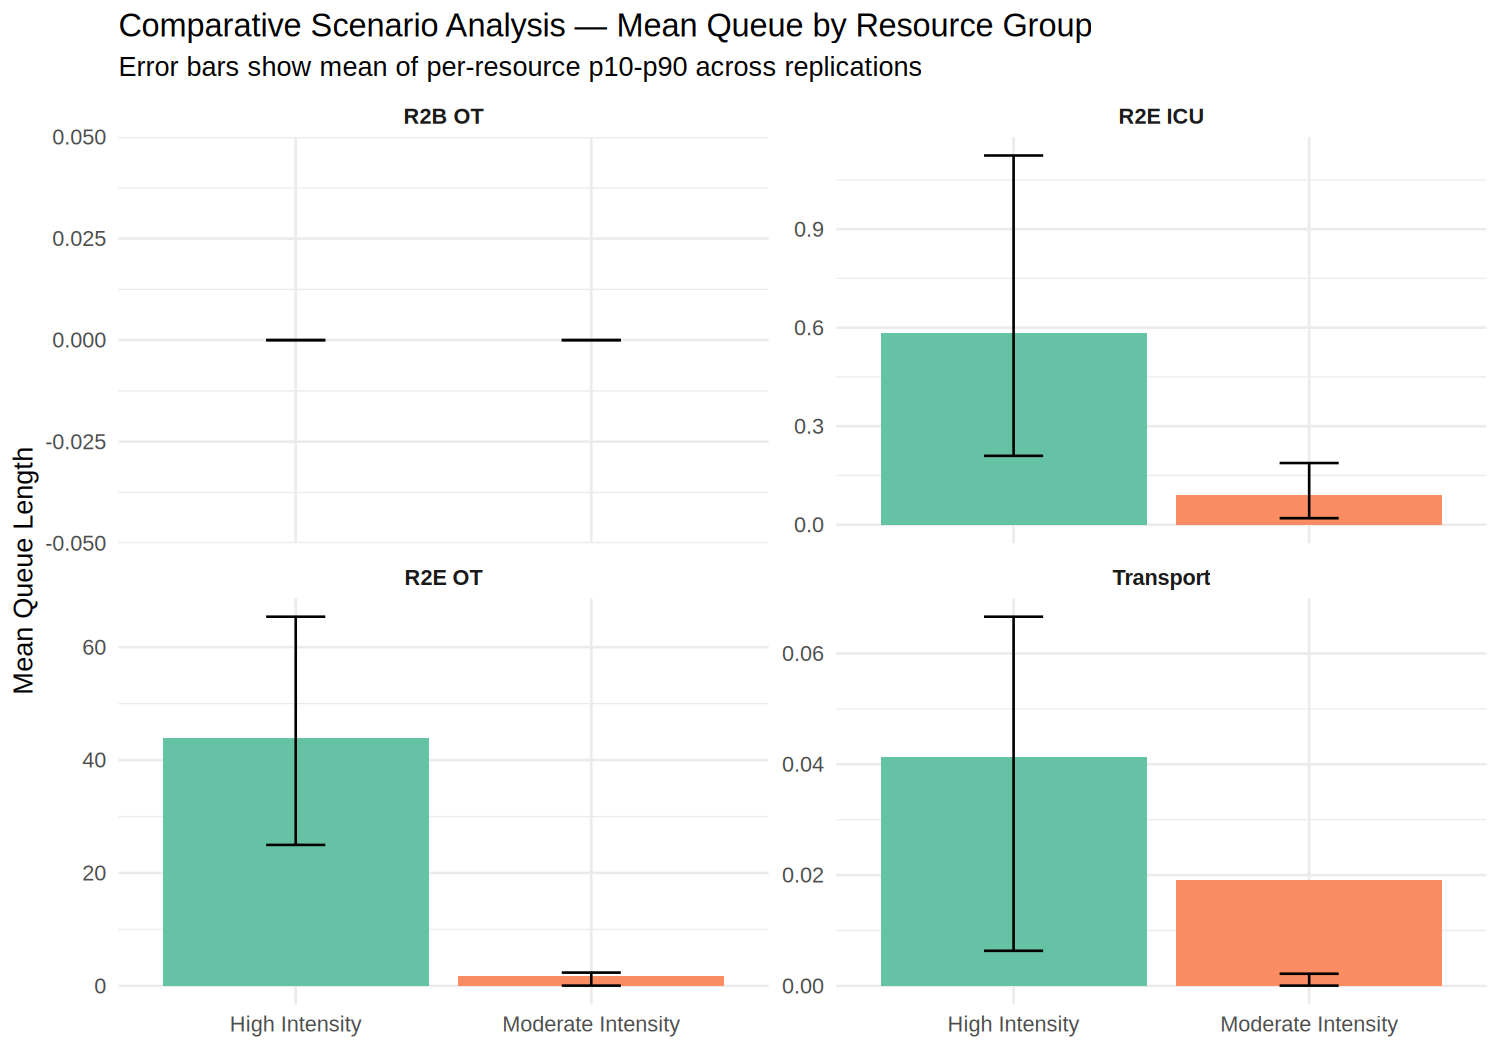
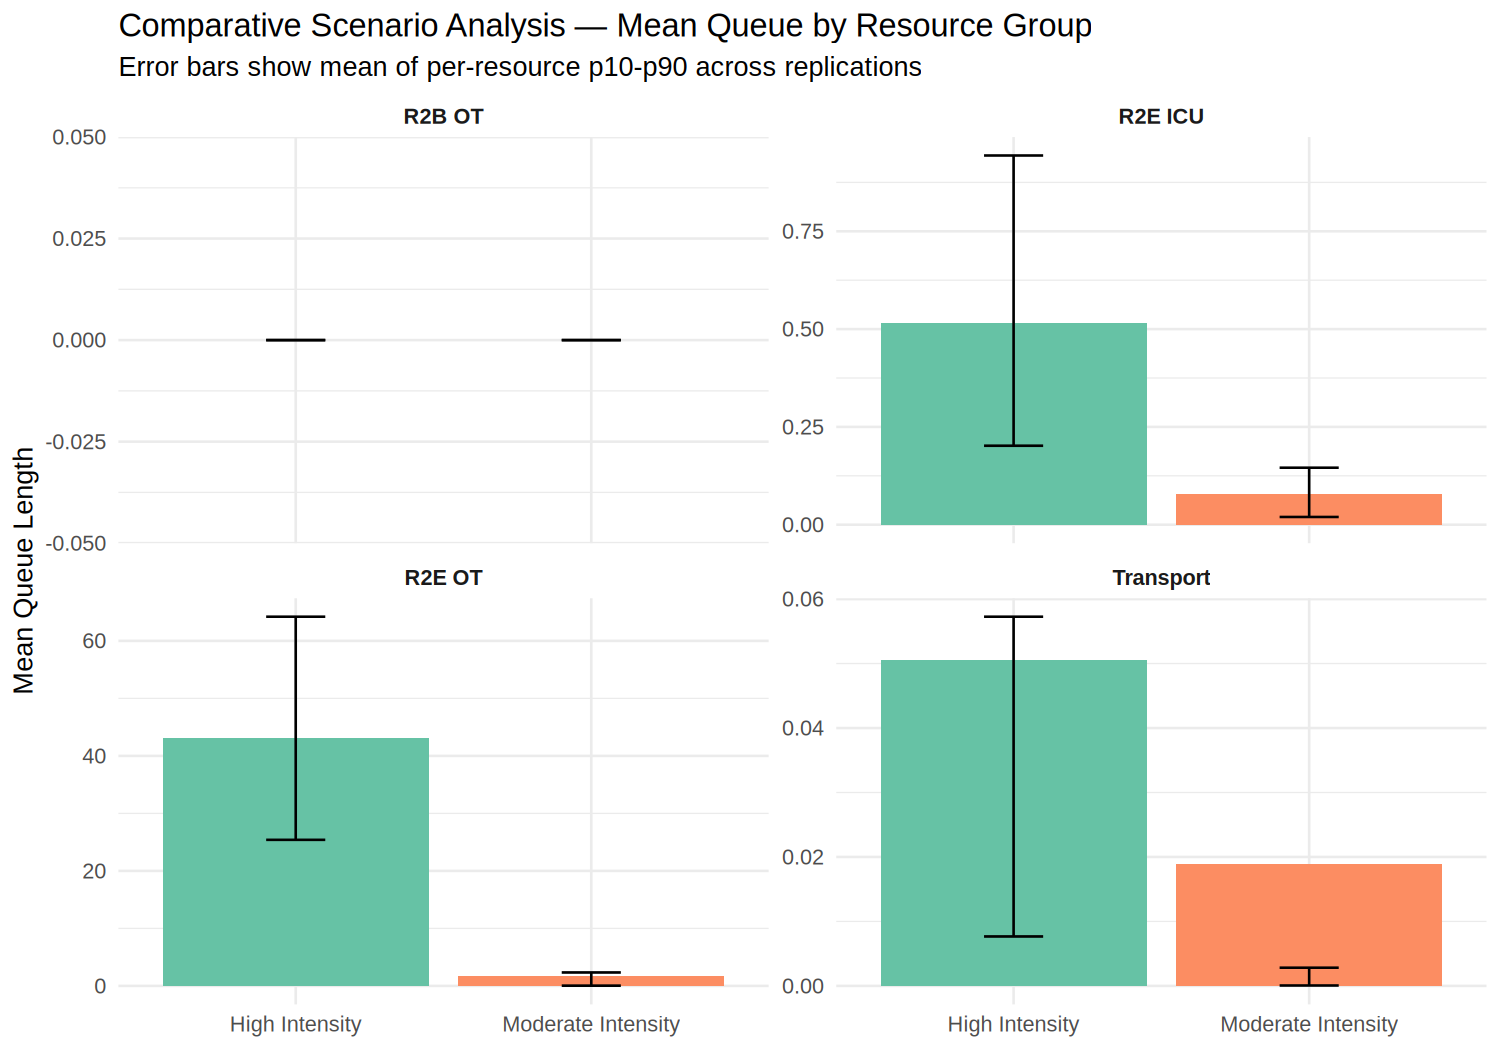
docs(issue-312): re-measure the comparative scenario tables at the new defaults
Re-runs the 50-replication comparison of moderate and high casualty intensity
under the three shipped defaults this branch changes, and updates both tables in
docs/Multi_Run_Analysis.md, the prose figures that quote them, the paper
figures rendered from them, and the summary in CLAUDE.md's provenance note.

Totals barely move: 432.2 total casualties against 430.9 at moderate intensity
and 1,050.4 against 1,048.6 at high, both well inside their intervals, so the
casualty volume ratio holds at 2.43x. Deaths of wounds fall slightly at high
intensity, 23.80 against 24.50, taking the ratio from 25.5x to 22.5x and the
share of wounded from 3.41% to 3.35%.

The queue table moves more, and in the direction the airlift change predicts.
R2E holding falls from 0.272 to 0.056 at moderate intensity, because with every
sortie flying no casualty holds a bed waiting for one, while at high intensity
it falls only from 1.454 to 1.038: the pool is still loaded there by
in-theatre recovery rather than by the evacuation wait. That widens the
relative growth from 5.34x to 18.4x, which is a larger number carrying less
meaning, and the prose says so rather than presenting it as the headline. R2E
operating theatre remains the largest absolute queue at 43.13 and is still the
constraint the section is about.

The three paper figures are re-rendered by scripts/render_paper_figures.R,
which parses the values out of the paper's own tables, so a figure cannot
[…]

diff --git a/docs/Multi_Run_Analysis.md b/docs/Multi_Run_Analysis.md
@@ -119,7 +119,7 @@ $$\bar{x} \pm t_{0.975,\;n-1}\,\frac{s}{\sqrt{n}}$$
 
 where $n$ is the number of runs, $\bar{x}$ the average across them and $s$ the variation between them. Dividing by the square root of the number of runs is what makes additional runs improve precision: quadrupling the runs halves the width of the interval.
 
-Two points govern how these intervals should be used. First, the interval describes how precisely the average is known, not how much one campaign varies. Several tables also report a 10th-to-90th-percentile range, which is the spread across campaigns, and it is many times the wider of the two. At moderate intensity, for example, the average campaign produces 430.9 casualties and that average is known to within about 19 either way, while the campaigns themselves range from 360 to 489. Sizing against 431 under-provides for the campaign that actually occurs. Second, where two intervals overlap, the simulation has not established a difference between them, and the gap between the two averages should not be acted on as though it were real.
+Two points govern how these intervals should be used. First, the interval describes how precisely the average is known, not how much one campaign varies. Several tables also report a 10th-to-90th-percentile range, which is the spread across campaigns, and it is many times the wider of the two. At moderate intensity, for example, the average campaign produces 432.2 casualties and that average is known to within about 18 either way, while the campaigns themselves range from 360 to 489. Sizing against 431 under-provides for the campaign that actually occurs. Second, where two intervals overlap, the simulation has not established a difference between them, and the gap between the two averages should not be acted on as though it were real.
 
 ### Replication Count and Resolution
 
@@ -159,14 +159,14 @@ Element, bed and transport fleet sizes are parameters a planner using the simula
 
 | Metric | Moderate intensity | High intensity | Ratio |
 |---|---|---|---|
-| Total casualties/run | 430.9 [412.3, 449.5] (p10–p90: 359.7–488.5) | 1,048.6 [1,024.7, 1,072.5] (p10–p90: 953.9–1,150.1) | 2.43× |
-| Wounded in action/run | 184.8 [168.3, 201.2] (p10–p90: 136.6–221.1) | 710.8 [685.0, 736.6] (p10–p90: 572.5–825.2) | 3.85× |
-| Died of wounds/run | 0.96 [0.72, 1.20] (p10–p90: 0–2.0) | 24.50 [22.47, 26.53] (p10–p90: 15.9–34.0) | 25.5× |
-| Died of wounds, as share of wounded | 0.52% [0.39%, 0.65%] | 3.41% [3.20%, 3.63%] | 6.56× |
+| Total casualties/run | 432.2 [414.4, 449.9] (p10–p90: 363.6–484.5) | 1,050.4 [1,026.0, 1,074.8] (p10–p90: 968.6–1,171.4) | 2.43× |
+| Wounded in action/run | 184.5 [169.3, 199.6] (p10–p90: 137.5–222.7) | 707.2 [681.0, 733.5] (p10–p90: 568.0–807.5) | 3.83× |
+| Died of wounds/run | 1.06 [0.80, 1.32] (p10–p90: 0–2.0) | 23.80 [21.84, 25.76] (p10–p90: 15.9–32.0) | 22.5× |
+| Died of wounds, as share of wounded | 0.55% [0.42%, 0.67%] | 3.35% [3.12%, 3.58%] | 6.12× |
 
-Casualty counts vary widely from campaign to campaign, because each arrival stream draws its daily rate from a distribution before placing that day's arrivals within the day [[9]](#references), so the between-day variation FORECAS reports [[3]](#references) reaches the output rather than being averaged away. At moderate intensity the total spans 359.7 to 488.5 casualties between the 10th and 90th percentiles against an average of 430.9. Surge capacity therefore has to be judged against the heavy day rather than the average one.
+Casualty counts vary widely from campaign to campaign, because each arrival stream draws its daily rate from a distribution before placing that day's arrivals within the day [[9]](#references), so the between-day variation FORECAS reports [[3]](#references) reaches the output rather than being averaged away. At moderate intensity the total spans 363.6 to 484.5 casualties between the 10th and 90th percentiles against an average of 432.2. Surge capacity therefore has to be judged against the heavy day rather than the average one.
 
-Deaths of wounds rise 25-fold while casualty volume rises 2.43-fold, but that comparison measures more than the health system, each intensity carrying the survival experience of its own campaign as well as its casualty rate.
+Deaths of wounds rise 22-fold while casualty volume rises 2.43-fold, but that comparison measures more than the health system, each intensity carrying the survival experience of its own campaign as well as its casualty rate.
 
 ![Four panels, one per metric, each plotting moderate and high casualty intensity as a point with a narrow 95% confidence interval bar and a wide band showing the 10th-to-90th-percentile spread across campaigns, for total casualties, wounded in action, deaths of wounds and deaths as a share of wounded](../images/paper_casualty_totals.png)
 
@@ -175,17 +175,17 @@ The width of the pale band against the narrow bar inside it is the point to take
 | Resource group | Moderate intensity mean queue | High intensity mean queue | Ratio |
 |---|---|---|---|
 | R2B operating theatre | 0.000 [0.000, 0.000] | 0.000 [0.000, 0.000] | not applicable |
-| R2B holding beds | 0.571 [0.447, 0.695] | 3.213 [2.885, 3.541] | 5.63× |
-| R2E operating theatre | 1.677 [0.154, 3.199] | 43.83 [39.35, 48.32] | 26.1× |
-| R2E intensive care | 0.092 [0.065, 0.118] | 0.584 [0.476, 0.692] | 6.37× |
-| R2E holding beds | 0.272 [0.112, 0.433] | 1.454 [1.208, 1.700] | 5.34× |
-| Ambulance and truck fleets | 0.019 [0.000, 0.047] | 0.041 [0.019, 0.064] | 2.16× |
+| R2B holding beds | 0.533 [0.421, 0.644] | 3.214 [2.890, 3.537] | 6.03× |
+| R2E operating theatre | 1.696 [0.165, 3.227] | 43.13 [38.87, 47.40] | 25.4× |
+| R2E intensive care | 0.078 [0.061, 0.095] | 0.516 [0.418, 0.614] | 6.59× |
+| R2E holding beds | 0.056 [0.014, 0.099] | 1.038 [0.910, 1.166] | 18.4× |
+| Ambulance and truck fleets | 0.019 [0.000, 0.047] | 0.051 [0.020, 0.081] | 2.67× |
 
 Each figure is the average queue at that group of resources across a campaign, averaged over the 50 runs. A resource that stands idle throughout a campaign contributes a zero rather than dropping out, so the figures describe the full establishment rather than only its busy parts.
 
 ![Horizontal plot of queue growth factor on a log scale for five resource groups, with a dashed reference line at the 2.43-fold rise in casualty volume, each point sized by its absolute queue at high intensity, R2E operating theatre furthest right and largest](../images/paper_queue_growth.png)
 
-Every queue grows faster than the casualty volume driving it. R2E operating theatre grows the most and carries by far the largest absolute queue. The ambulance and truck fleets grow second fastest, which is why the figure sizes each point by its absolute queue: transport grows 7.25-fold from a base so small that the resulting queue is still a fraction of one casualty.
+Every queue grows faster than the casualty volume driving it. R2E operating theatre carries by far the largest absolute queue, and R2E holding grows the most in relative terms, 18.4-fold, from a base so low that the growth factor is the less useful of the two readings. The ambulance and truck fleets grow second fastest, which is why the figure sizes each point by its absolute queue: transport grows 7.25-fold from a base so small that the resulting queue is still a fraction of one casualty.
 
 ![Four-panel bar chart of mean queue length by resource group, R2B operating theatre, R2E operating theatre, R2E intensive care and transport, comparing the high and moderate casualty intensities with error bars, on four different vertical scales](../images/scenario_comparison.png)
 

diff --git a/CLAUDE.md b/CLAUDE.md
@@ -530,7 +530,7 @@ These are the validated baseline values from the current single-run analysis. Re
 >
 > This note replaces the twenty-one per-issue provenance caveats that stood here previously, covering Issues #76, #18, #23, #161, #154, #152, #156, #160, #159, #173, #178, #189, #153, #148, #146, #203, #208, #206, #150, #149 and #151. Those caveats recorded a drift the project had deliberately chosen to document rather than chase, each refresh having been made in an unpinned R 4.3.3 sandbox because no Docker was available to build the pinned container, and each accordingly stating that a maintainer re-run in `rocker/rstudio:4.4.2` was needed before its figures could be considered authoritative. That re-run is this one, and it resolves them in the affirmative: the seed-42 run in the pinned container reproduces the tracked baseline **byte for byte**, in `logs/logs.txt` and in all seven `data/arrivals_*.txt` diagnostics and `data/mass_casualty_events.csv` alike. The sandboxes were faithful, so no published seed-42 value moves in this refresh and the caveats are retired as correct rather than corrected. What this establishes is reproducibility across R 4.3.3 and R 4.4.2 for this model at this seed; it is evidence about the environments actually used, not a proof that no environment could diverge.
 >
-> The comparative scenario tables stand at 50 replications per profile: `moderate_intensity` 430.9 total casualties, 184.8 WIA, 0.96 DOW, 0.52% DOW/WIA, and `high_intensity` 1,048.6, 710.8, 24.50 and 3.41%. At the defaults in force for the Issue #155 refresh these read 437.8, 188.7, 0.78 and 0.42%, and 1,021.0, 684.3, 23.58 and 3.43%, and reproduced exactly in the pinned container, which is the reproducibility result this note was written to record. The measurements that do move are those whose generators had not been re-run since the arrival process was rebuilt, and they move because of that model change rather than because of the environment; each is identified where it appears.
+> The comparative scenario tables stand at 50 replications per profile: `moderate_intensity` 432.2 total casualties, 184.5 WIA, 1.06 DOW, 0.55% DOW/WIA, and `high_intensity` 1,050.4, 707.2, 23.80 and 3.35%, re-measured at the three defaults the note above describes. At the defaults in force for the Issue #155 refresh these read 437.8, 188.7, 0.78 and 0.42%, and 1,021.0, 684.3, 23.58 and 3.43%, and reproduced exactly in the pinned container, which is the reproducibility result this note was written to record. The measurements that do move are those whose generators had not been re-run since the arrival process was rebuilt, and they move because of that model change rather than because of the environment; each is identified where it appears.
 >
 > Two accommodations were needed to build the container in this session, both transport-only, and neither reaches any package version: the Ubuntu archive is addressed over TLS because the session's egress proxy refuses plain HTTP, and `renv` resolves the lockfile from the Posit Package Manager binary mirror for the same Ubuntu release rather than compiling each package from source. `renv.lock` remains the sole authority on versions, and the R version, the package versions and the system libraries are those the Dockerfile specifies. The tracked `.devcontainer/Dockerfile` is unmodified.
 
